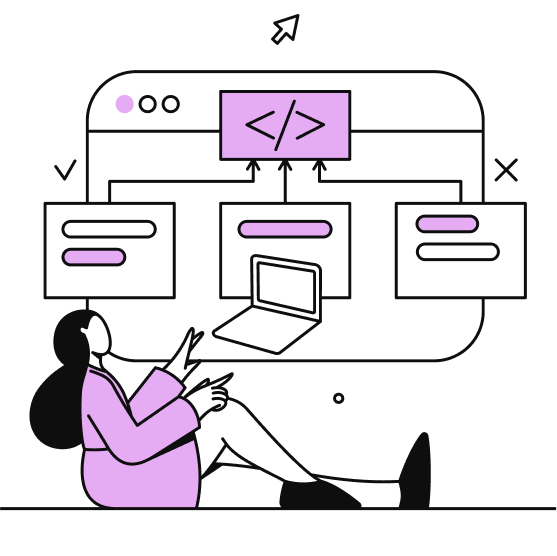
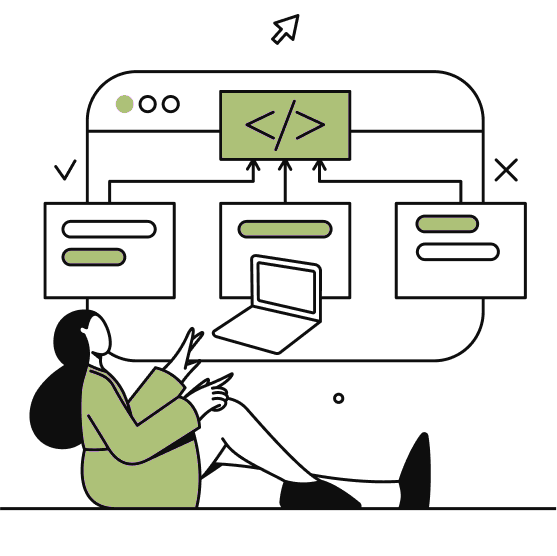
third commit

diff --git a/public/css/app.css b/public/css/app.css
@@ -25,7 +25,7 @@
 	--light-color: #eaedf0;
 	--light-color2: #dbdbdb;
 	--light-color3: #dbdbdb1a;
-	--green-bg: #90e0ef;
+	--green-bg: #aec178c8;
 	--grey-color: #747474;
 }
 
